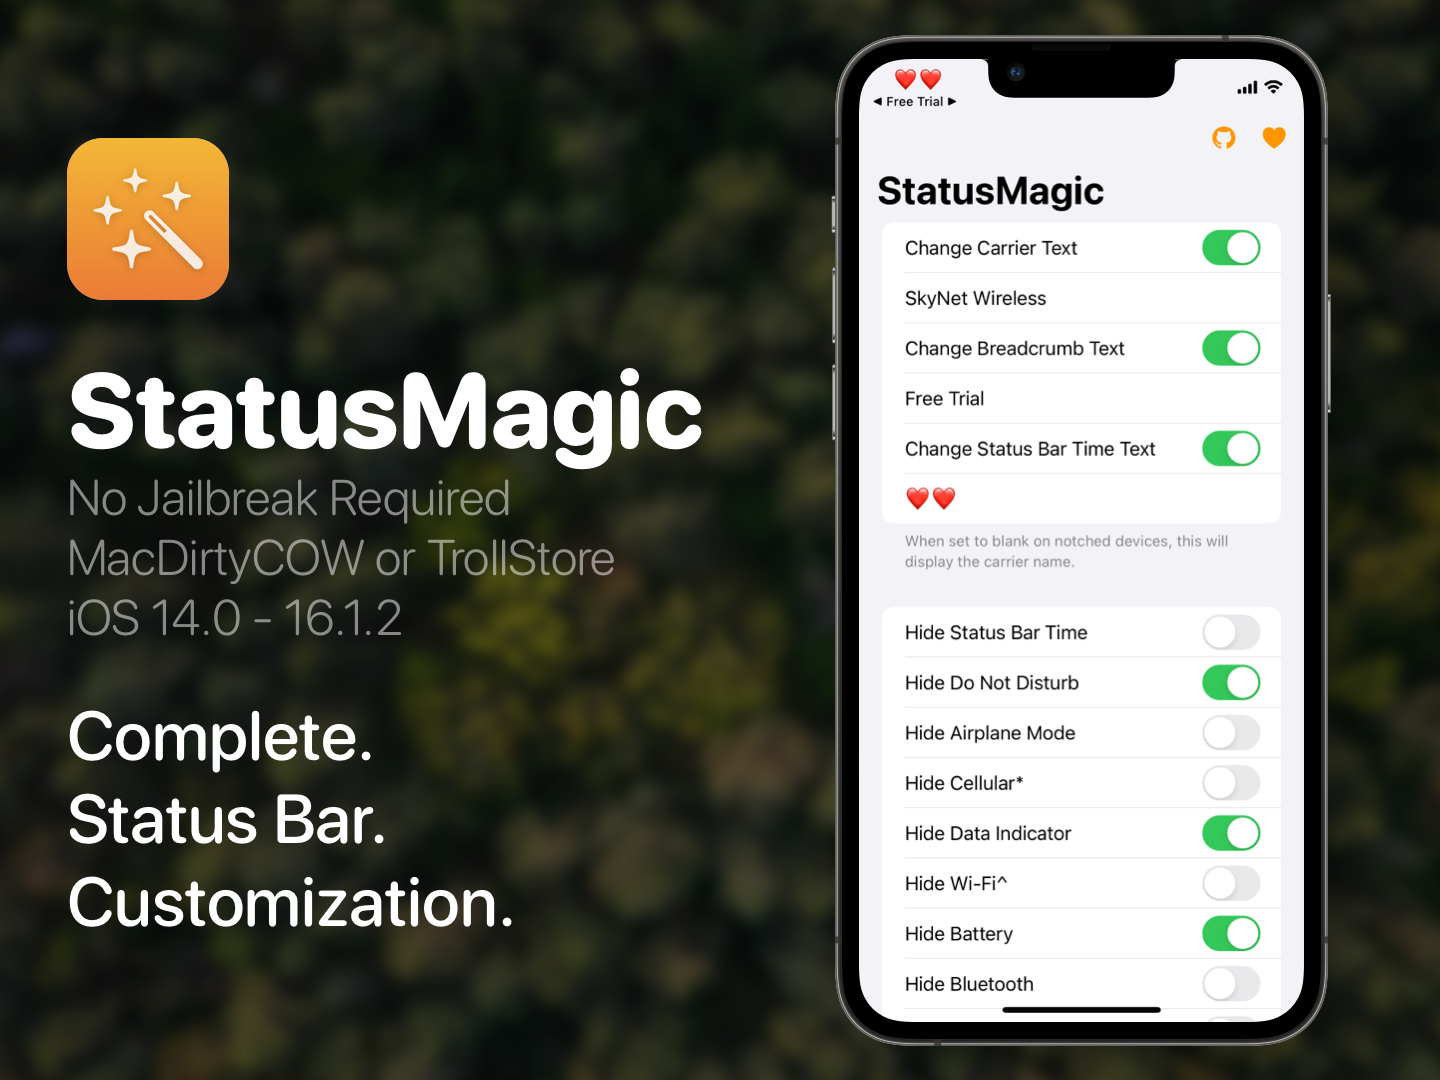
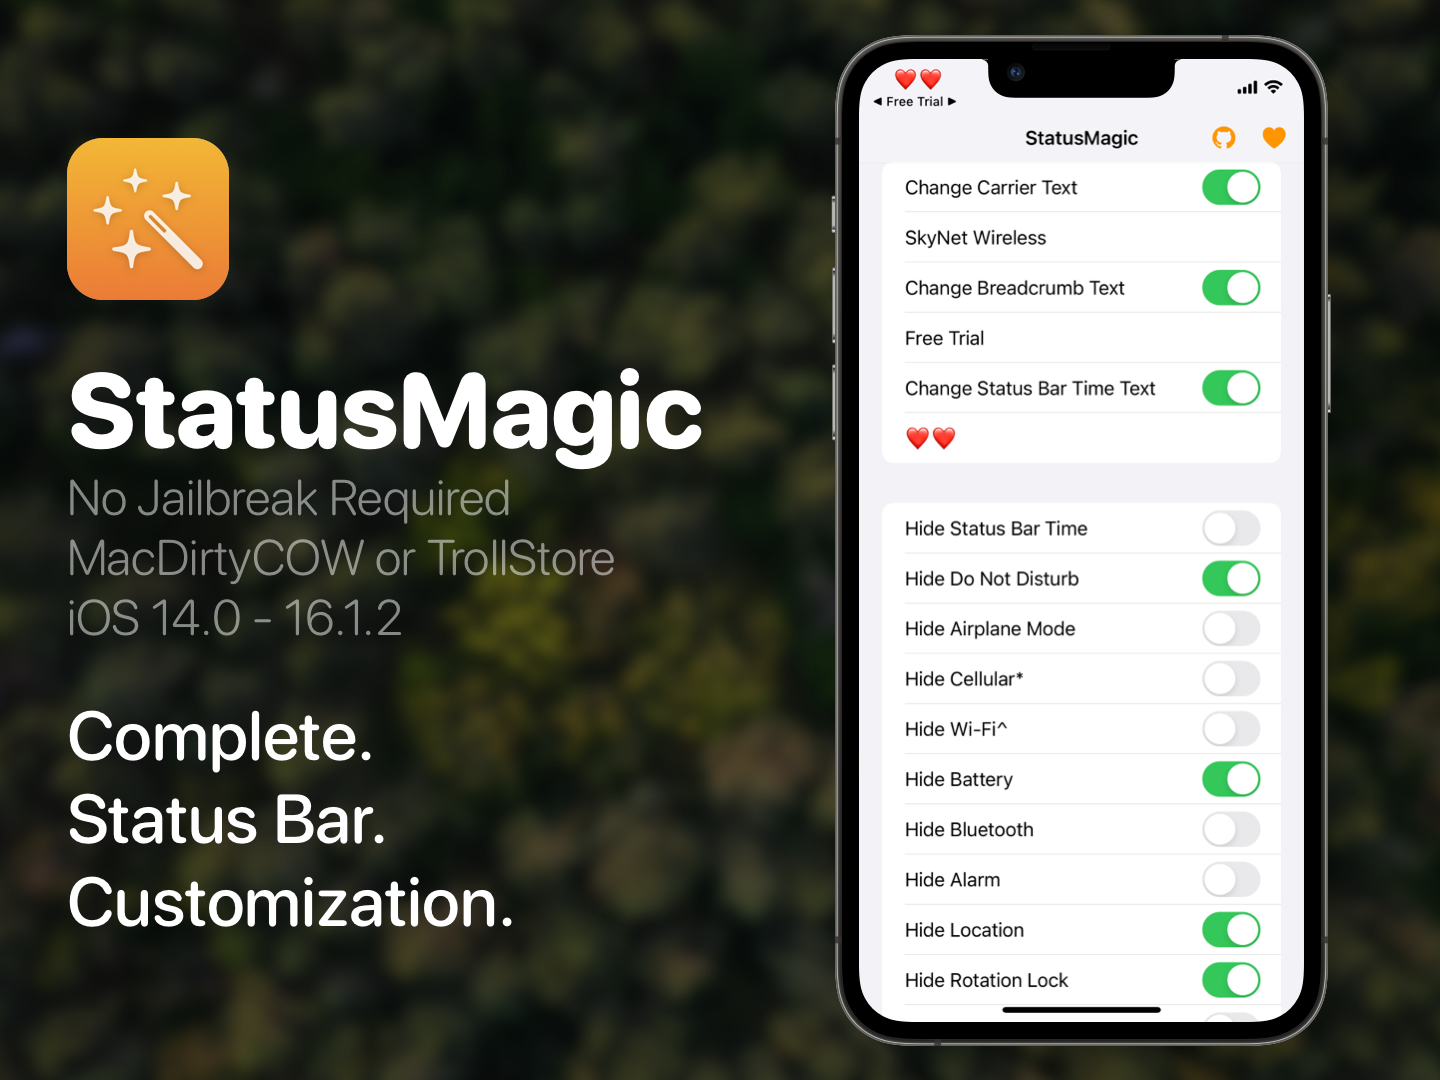
...removed the data indicator cause it clashes with wifi annoyingly

diff --git a/StatusMagic/ContentView.swift b/StatusMagic/ContentView.swift
@@ -13,7 +13,6 @@ struct ContentView: View {
     @State private var DNDHidden: Bool = StatusManager.sharedInstance().isDNDHidden()
     @State private var airplaneHidden: Bool = StatusManager.sharedInstance().isAirplaneHidden()
     @State private var cellHidden: Bool = StatusManager.sharedInstance().isCellHidden()
-    @State private var dataHidden: Bool = StatusManager.sharedInstance().isDataHidden()
     @State private var wiFiHidden: Bool = StatusManager.sharedInstance().isWiFiHidden()
     @State private var batteryHidden: Bool = StatusManager.sharedInstance().isBatteryHidden()
     @State private var bluetoothHidden: Bool = StatusManager.sharedInstance().isBluetoothHidden()
@@ -108,7 +107,7 @@ struct ContentView: View {
                     })
                 }
 
-                Section (footer: Text("*Will also hide carrier name\n^Will also hide data indicator")) {
+                Section (footer: Text("*Will also hide carrier name\n^Will also hide cellular data indicator")) {
                     // bruh I had to add a group cause SwiftUI won't let you add more than 10 things to a view?? ok
                     Group {
                         Toggle("Hide Status Bar Time", isOn: $clockHidden).onChange(of: clockHidden, perform: { nv in
@@ -123,18 +122,7 @@ struct ContentView: View {
                         Toggle("Hide Cellular*", isOn: $cellHidden).onChange(of: cellHidden, perform: { nv in
                             StatusManager.sharedInstance().hideCell(nv)
                         })
-                        Toggle("Hide Data Indicator", isOn: $dataHidden).onChange(of: dataHidden, perform: { nv in
-                            if !nv {
-                                wiFiHidden = false
-                            }
-                            StatusManager.sharedInstance().hideData(nv)
-                        })
                         Toggle("Hide Wi-Fi^", isOn: $wiFiHidden).onChange(of: wiFiHidden, perform: { nv in
-                            if nv {
-                                dataHidden = true
-                            } else {
-                                dataHidden = false
-                            }
                             StatusManager.sharedInstance().hideWiFi(nv)
                         })
                         Toggle("Hide Battery", isOn: $batteryHidden).onChange(of: batteryHidden, perform: { nv in
@@ -149,10 +137,10 @@ struct ContentView: View {
                         Toggle("Hide Location", isOn: $locationHidden).onChange(of: locationHidden, perform: { nv in
                             StatusManager.sharedInstance().hideLocation(nv)
                         })
+                        Toggle("Hide Rotation Lock", isOn: $rotationHidden).onChange(of: rotationHidden, perform: { nv in
+                            StatusManager.sharedInstance().hideRotation(nv)
+                        })
                     }
-                    Toggle("Hide Rotation Lock", isOn: $rotationHidden).onChange(of: rotationHidden, perform: { nv in
-                        StatusManager.sharedInstance().hideRotation(nv)
-                    })
                     Toggle("Hide AirPlay", isOn: $airPlayHidden).onChange(of: airPlayHidden, perform: { nv in
                         StatusManager.sharedInstance().hideAirPlay(nv)
                     })

diff --git a/StatusMagic/StatusManager/StatusSetter16.m b/StatusMagic/StatusManager/StatusSetter16.m
@@ -374,24 +374,6 @@ typedef struct {
     [self applyChanges:overrides];
 }
 
-- (bool) isDataHidden {
-    StatusBarOverrideData *overrides = [self getOverrides];
-    return overrides->overrideItemIsEnabled[CellularDataNetworkStatusBarItem] == 1;
-}
-
-- (void) hideData:(bool)hidden {
-    StatusBarOverrideData *overrides = [self getOverrides];
-    if (hidden) {
-        overrides->overrideItemIsEnabled[CellularDataNetworkStatusBarItem] = 1;
-        overrides->values.itemIsEnabled[CellularDataNetworkStatusBarItem] = 0;
-    } else {
-        overrides->overrideItemIsEnabled[CellularDataNetworkStatusBarItem] = 0;
-        overrides->overrideItemIsEnabled[SecondaryCellularDataNetworkStatusBarItem] = 0; // interferes with wi-fi so show that
-    }
-    
-    [self applyChanges:overrides];
-}
-
 - (bool) isWiFiHidden {
     StatusBarOverrideData *overrides = [self getOverrides];
     return overrides->overrideItemIsEnabled[CellularDataNetworkStatusBarItem] == 1 &&

diff --git a/StatusMagic/StatusManager/StatusSetter14.m b/StatusMagic/StatusManager/StatusSetter14.m
@@ -340,24 +340,6 @@ typedef struct {
     [self applyChanges:overrides];
 }
 
-- (bool) isDataHidden {
-    StatusBarOverrideData *overrides = [self getOverrides];
-    return overrides->overrideItemIsEnabled[CellularDataNetworkStatusBarItem] == 1;
-}
-
-- (void) hideData:(bool)hidden {
-    StatusBarOverrideData *overrides = [self getOverrides];
-    if (hidden) {
-        overrides->overrideItemIsEnabled[CellularDataNetworkStatusBarItem] = 1;
-        overrides->values.itemIsEnabled[CellularDataNetworkStatusBarItem] = 0;
-    } else {
-        overrides->overrideItemIsEnabled[CellularDataNetworkStatusBarItem] = 0;
-        overrides->overrideItemIsEnabled[SecondaryCellularDataNetworkStatusBarItem] = 0; // interferes with wi-fi so show that
-    }
-    
-    [self applyChanges:overrides];
-}
-
 - (bool) isWiFiHidden {
     StatusBarOverrideData *overrides = [self getOverrides];
     return overrides->overrideItemIsEnabled[CellularDataNetworkStatusBarItem] == 1;

diff --git a/StatusMagic/StatusManager/StatusSetter15.m b/StatusMagic/StatusManager/StatusSetter15.m
@@ -369,24 +369,6 @@ typedef struct {
     [self applyChanges:overrides];
 }
 
-- (bool) isDataHidden {
-    StatusBarOverrideData *overrides = [self getOverrides];
-    return overrides->overrideItemIsEnabled[CellularDataNetworkStatusBarItem] == 1;
-}
-
-- (void) hideData:(bool)hidden {
-    StatusBarOverrideData *overrides = [self getOverrides];
-    if (hidden) {
-        overrides->overrideItemIsEnabled[CellularDataNetworkStatusBarItem] = 1;
-        overrides->values.itemIsEnabled[CellularDataNetworkStatusBarItem] = 0;
-    } else {
-        overrides->overrideItemIsEnabled[CellularDataNetworkStatusBarItem] = 0;
-        overrides->overrideItemIsEnabled[SecondaryCellularDataNetworkStatusBarItem] = 0; // interferes with wi-fi so show that
-    }
-    
-    [self applyChanges:overrides];
-}
-
 - (bool) isWiFiHidden {
     StatusBarOverrideData *overrides = [self getOverrides];
     return overrides->overrideItemIsEnabled[CellularDataNetworkStatusBarItem] == 1;

diff --git a/StatusMagic/StatusManager/StatusSetter16_1.m b/StatusMagic/StatusManager/StatusSetter16_1.m
@@ -376,24 +376,6 @@ typedef struct {
     [self applyChanges:overrides];
 }
 
-- (bool) isDataHidden {
-    StatusBarOverrideData *overrides = [self getOverrides];
-    return overrides->overrideItemIsEnabled[CellularDataNetworkStatusBarItem] == 1;
-}
-
-- (void) hideData:(bool)hidden {
-    StatusBarOverrideData *overrides = [self getOverrides];
-    if (hidden) {
-        overrides->overrideItemIsEnabled[CellularDataNetworkStatusBarItem] = 1;
-        overrides->values.itemIsEnabled[CellularDataNetworkStatusBarItem] = 0;
-    } else {
-        overrides->overrideItemIsEnabled[CellularDataNetworkStatusBarItem] = 0;
-        overrides->overrideItemIsEnabled[SecondaryCellularDataNetworkStatusBarItem] = 0; // interferes with wi-fi so show that
-    }
-    
-    [self applyChanges:overrides];
-}
-
 - (bool) isWiFiHidden {
     StatusBarOverrideData *overrides = [self getOverrides];
     return overrides->overrideItemIsEnabled[CellularDataNetworkStatusBarItem] == 1;

diff --git a/StatusMagic/StatusManager/StatusManager.m b/StatusMagic/StatusManager/StatusManager.m
@@ -177,14 +177,6 @@
     [self.setter hideCell:hidden];
 }
 
-- (bool) isDataHidden {
-    return [self.setter isDataHidden];
-}
-
-- (void) hideData:(bool)hidden {
-    [self.setter hideData:hidden];
-}
-
 - (bool) isWiFiHidden {
     return [self.setter isWiFiHidden];
 }

diff --git a/StatusMagic/StatusManager/StatusManager.h b/StatusMagic/StatusManager/StatusManager.h
@@ -26,8 +26,6 @@
 - (void) hideAirplane:(bool)hidden;
 - (bool) isCellHidden;
 - (void) hideCell:(bool)hidden;
-- (bool) isDataHidden;
-- (void) hideData:(bool)hidden;
 - (bool) isWiFiHidden;
 - (void) hideWiFi:(bool)hidden;
 - (bool) isBatteryHidden;

diff --git a/StatusMagic/StatusManager/StatusSetter.h b/StatusMagic/StatusManager/StatusSetter.h
@@ -22,8 +22,6 @@
 - (void) hideAirplane:(bool)hidden;
 - (bool) isCellHidden;
 - (void) hideCell:(bool)hidden;
-- (bool) isDataHidden;
-- (void) hideData:(bool)hidden;
 - (bool) isWiFiHidden;
 - (void) hideWiFi:(bool)hidden;
 - (bool) isBatteryHidden;
